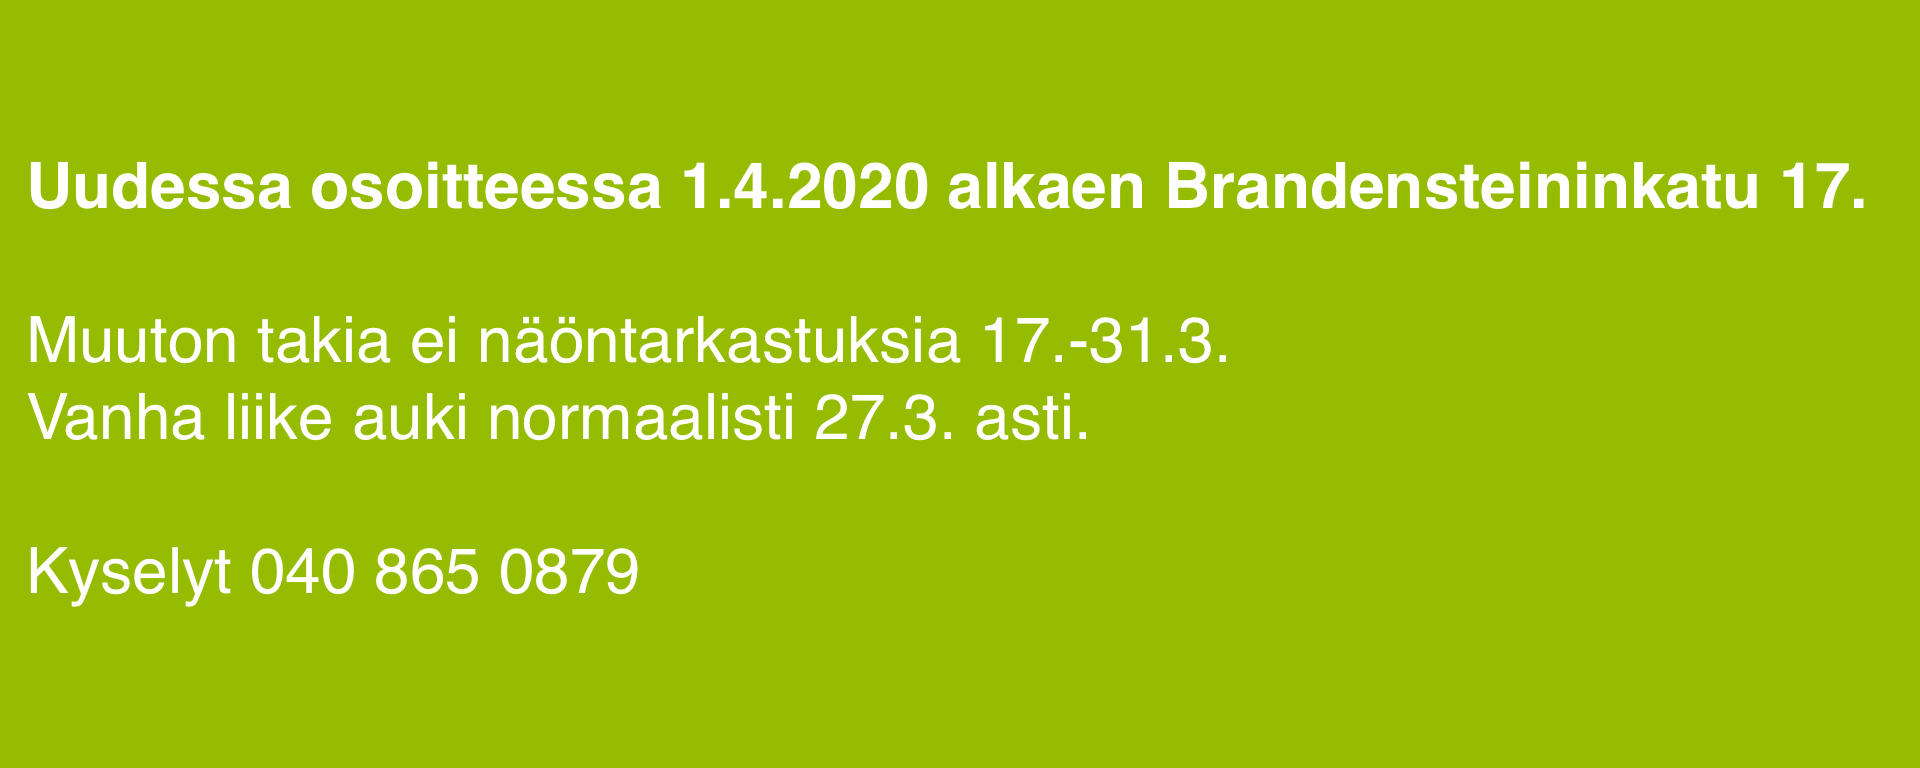
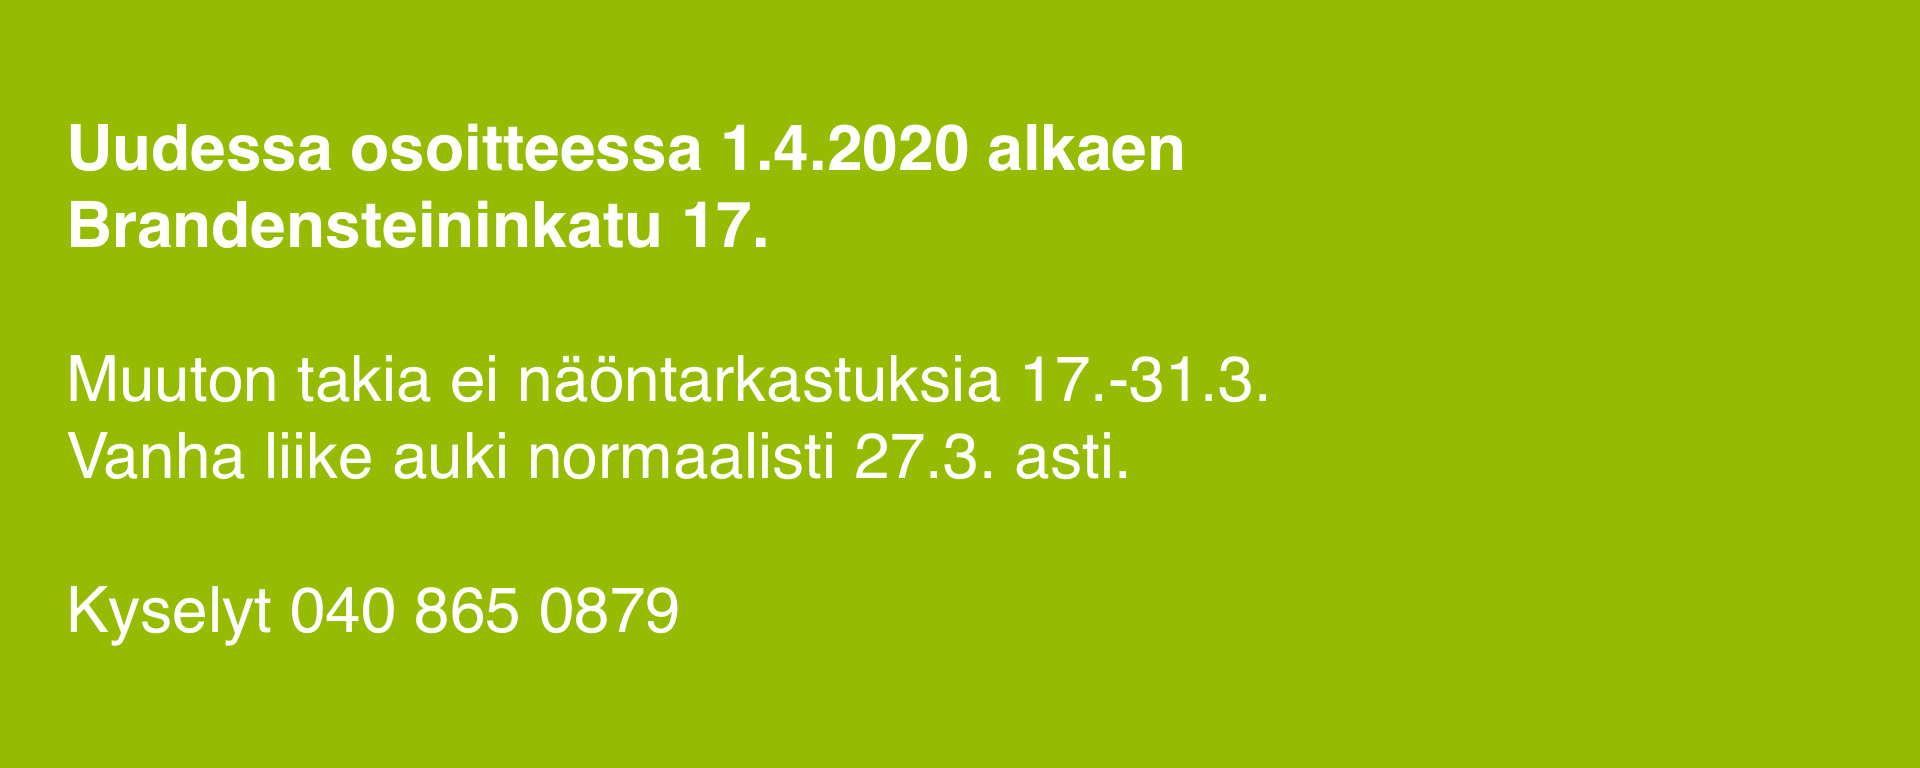
Fix new address slider - typo in file name + use larger margins in images

Changed region(s): [[0.0, 0.4062, 0.6562, 0.625], [0.0, 0.1562, 0.9688, 0.3438], [0.0, 0.6875, 0.375, 0.8438]]

diff --git a/sv/index.html b/sv/index.html
@@ -41,9 +41,9 @@
             <div class='carousel carousel-animated carousel-animate-slide'>
               <div class='carousel-container'>
                 <div class='carousel-item has-background is-active'>
-                  <img class="is-background" src="../assets/img/slider/muutto-sv.png" alt="" width="1920" height="768"/>
+                  <img class="is-background" src="../assets/img/slider/muutto-sv.png?v2" alt="" width="1920" height="768"/>
                 </div>
-                <div class='carousel-item has-background is-active'>
+                <div class='carousel-item has-background'>
                   <img class="is-background" src="../assets/img/slider/1.jpg" alt="" width="1920" height="768" />
                 </div>
                 <div class='carousel-item has-background'>
@@ -119,9 +119,9 @@
             <div class='carousel carousel-animated carousel-animate-slide'>
               <div class='carousel-container'>
                 <div class='carousel-item has-background is-active'>
-                  <img class="is-background" src="../assets/img/slider/muutto-sv.png" alt="" width="1920" height="768"/>
+                  <img class="is-background" src="../assets/img/slider/muutto-sv.png?v2" alt="" width="1920" height="768"/>
                 </div>
-                <div class='carousel-item has-background is-active'>
+                <div class='carousel-item has-background'>
                   <img class="is-background" src="../assets/img/slider/1.jpg" alt="" width="1920" height="768" />
                 </div>
                 <div class='carousel-item has-background'>

diff --git a/index.html b/index.html
@@ -41,9 +41,9 @@
             <div class='carousel carousel-animated carousel-animate-slide'>
               <div class='carousel-container'>
                 <div class='carousel-item has-background is-active'>
-                  <img class="is-background" src="assets/img/slider/muutto-fo.png" alt="" width="1920" height="768"/>
+                  <img class="is-background" src="assets/img/slider/muutto-fi.png?v2" alt="" width="1920" height="768"/>
                 </div>
-                <div class='carousel-item has-background is-active'>
+                <div class='carousel-item has-background'>
                   <img class="is-background" src="assets/img/slider/1.jpg" alt="" width="1920" height="768"/>
                 </div>
                 <div class='carousel-item has-background'>
@@ -119,9 +119,9 @@
             <div class='carousel carousel-animated carousel-animate-slide'>
               <div class='carousel-container'>
                 <div class='carousel-item has-background is-active'>
-                  <img class="is-background" src="assets/img/slider/muutto-fi.png" alt="" width="1920" height="768"/>
+                  <img class="is-background" src="assets/img/slider/muutto-fi.png?v2" alt="" width="1920" height="768"/>
                 </div>
-                <div class='carousel-item has-background is-active'>
+                <div class='carousel-item has-background'>
                   <img class="is-background" src="assets/img/slider/1.jpg" alt="" width="1920" height="768" />
                 </div>
                 <div class='carousel-item has-background'>
